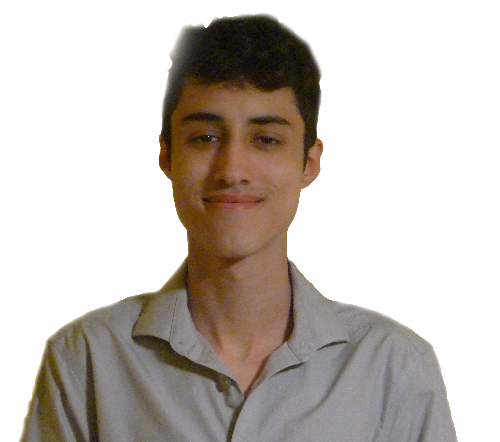
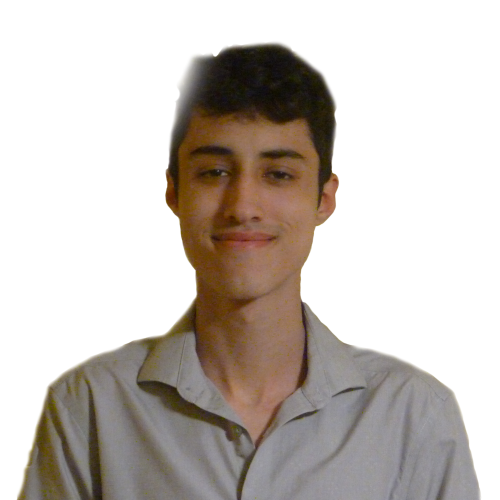
Added infoBlocks and stuff like that

Changed region(s): [[0.03, 0.0294, 0.84, 1.0], [0.75, 0.7059, 0.96, 1.0]]

diff --git a/styles/style.css b/styles/style.css
@@ -1,6 +1,6 @@
 :root{
-	--headerColorDark: #0D1117;
-	--bodyColorDark: #06080a;
+	--navbarColor: #0D1117;
+	--backgroundColor: #06080a;
 	--mainSectionColorDark: #11161b;
 	--textFieldBackgroundColor: #0b0e11;
 	--defaultFont: -apple-system, BlinkMacSystemFont, 'Segoe UI', Roboto, Oxygen, Ubuntu, Cantarell, 'Open Sans', 'Helvetica Neue', sans-serif;
@@ -13,8 +13,9 @@ html, body{
 
 body{
 	margin: 0;
+	margin-top: 65px;
 	font-family: var(--defaultFont);
-	background-color: var(--bodyColorDark);
+	background-color: var(--backgroundColor);
 }
 
 #navigationBar{
@@ -32,7 +33,7 @@ body{
 	margin-right: auto;
 
 	color: whitesmoke;
-	background-color: var(--headerColorDark);
+	background-color: var(--navbarColor);
 }
 
 #navigationBar a{
@@ -57,18 +58,17 @@ body{
 
 #logo{
 	width: 32px;
-	filter: invert(80%); /* change this.. bad design. Just have a white logo instead */
+	filter: invert(80%); /* Maybe bad design. Just have a white logo instead? */
 }
 
 #logo:hover{
-	filter: invert(95%) drop-shadow(0px 0px 2px lightgray);
+	filter: invert(95%) drop-shadow(0px 0px 2px lightgray); /* First 2 params are the x and y offsets (we want no offset b/c we want the shadow to look like a "glow" directly behind logo). 3rd param is the blur-radius */
 }
 
-#mainSection{
+.sectionContainer{
 	width: 60%;
 	margin-left: auto; /* this means the margins are the same, so it gets pushed to the middle */
-	margin-right: auto; 
-	margin-top: 70px;
+	margin-right: auto;
 	margin-bottom: 20px;
 	padding-left: 48px;
 	padding-right: 48px;
@@ -80,28 +80,42 @@ body{
 	border-radius: var(--defaultBorderRadius);
 }
 
-#mainSection h1{
-	display: inline-flex;
-	width: 100%;
-	justify-content: center;
-	
+.titleContainer{
+	width: 480px;
+	padding-left: 0;
+	padding-right: 0;
+}
+
+
+@media (max-width: 650px){
+	.titleContainer{
+		width: 60%;
+		padding-left: 48px;
+		padding-right: 48px;
+	}
 }
 
 #title{
 	font-size: 32px;
 	margin-top: 16px;
+	margin-bottom: 48px;
 	min-width: 300px; /* If the width gets smaller than this, the title gets messed up */
+	filter: drop-shadow(16px 16px 16px var(--backgroundColor));
 }
 
 /* Make the font smaller when the screen width gets too small */
 @media (max-width: 675px) {
 	#title {
-	  font-size: 20px;
+	  /* font-size: 20px; */
+	  font-size: 4.7vw;
 	}
   }
 
 .horizontalAngledText, .verticalAngledText{
 	margin: 0;
+	display: inline-flex;
+	width: 100%;
+	justify-content: center;
 }
 
 .horizontalAngledText{
@@ -112,19 +126,40 @@ body{
 	transform: skew(0deg, -30deg) scaleY(1.33333);
 }
 
-#waitWhoHeader{
-	margin-top: 100px;
+#infoSection{
+	margin-top: 25px;
+	display: flex;
+	justify-content: center; /* Hugs the elements together in the center */
+}
+
+.infoBlock{
+	width: 30%;
+	margin-left: auto; /* centers the info blocks */
+	margin-right: auto; /* centers the info blocks */
+	min-width: 300px;
+	font-size: 18px;
+}
+
+
+.infoBlock h1{
+	font-size: 32px;
+	text-align: center;
+}
+
+/* stack elements upon small screen width */
+@media screen and (max-width: 1200px){
+	#infoSection{
+		display: block;
+	}
 }
 
 #mateiPic{
-	padding: 0;
-	display:block;
 	margin-top: 50px;
 	margin-left: auto;
 	margin-right: auto;
 	width: 35%;
-	min-width: 250px;
-	
+	border-radius: 50%; /* makes pic circular */
+	background-color: var(--backgroundColor);
 }
 
 #cross{
@@ -139,7 +174,6 @@ body{
 	border: 2px solid lightgray;
 	border-radius: var(--defaultBorderRadius);
 	margin: auto; /* Puts form to the middle */
-	
 }
 
 #complaintForm input, textarea{

diff --git a/index.html b/index.html
@@ -21,29 +21,35 @@
 			</ul>
 		</nav>
 
-		<div id="mainSection">
+		<div class="sectionContainer titleContainer">
 			<div id="title">
 				<h1 class="horizontalAngledText">MATEI&emsp;&nbsp;</h1>
 				<h1 class="verticalAngledText">&emsp;&ensp;MARICA&ensp;</h1>
 				<h1 class="horizontalAngledText">&emsp;&ensp;.DEV&emsp;&ensp;</h1>
 			</div>
-			
-			<h1 id="waitWhoHeader">Wait, who?</h1>
+		</div>
 
+		<div class="sectionContainer">
+			<div id="infoSection">
+				<div class="infoBlock">
+					<h1>What is this?</h1>
+					<p>This is just a page for me to consolidate all my work along with my deepest secrets. Think of this as an extension of myself.</p>	
+				</div>
+				<div class="infoBlock">
+					<h1>Who are you?</h1>
+					<img src="images/UNB_small.png" alt="">
+					<p>3rd CS Student @ UNB Fredericton</p>	
+				</div>
+			</div>
+			
 			<div id="aboutMeSection">
 				<img id="mateiPic" src="images/matei.png" alt="My mug">
 				
 			</div>
 
-			<h1 id="thisGuyHeader">This guy</h1>
-
 			<h1 id="cross">CODING EXTRAORDINAIRE</h1>
 
-			<p>Lorem ipsum dolor sit amet consectetur adipisicing elit. Quis quo soluta animi dolores, saepe voluptates id cumque officiis dignissimos et iusto unde impedit nesciunt accusamus nisi quam eaque similique? In! Lorem ipsum, dolor sit amet consectetur adipisicing elit. Officia atque sed, ducimus rem libero et eum facere adipisci. Fugit eos consectetur nihil dicta quam? Quasi officia recusandae eligendi ipsa consequatur. Lorem ipsum dolor, sit amet consectetur adipisicing elit. Dignissimos corporis animi totam quia voluptates impedit, eum perspiciatis facere accusamus vel! Minima facilis totam, quidem voluptas eaque aliquid pariatur adipisci voluptates. Lorem</p>
 			<h1>Got a complaint?</h1>
-
-			
-
 			<form id="complaintForm" action="placeholder.js" method="POST">
 				<fieldset >
 					<div class="formField">
@@ -54,7 +60,6 @@
 					</div>
 				</fieldset>
 			</form>
-
 		</div>
 	</body>
 </html>
